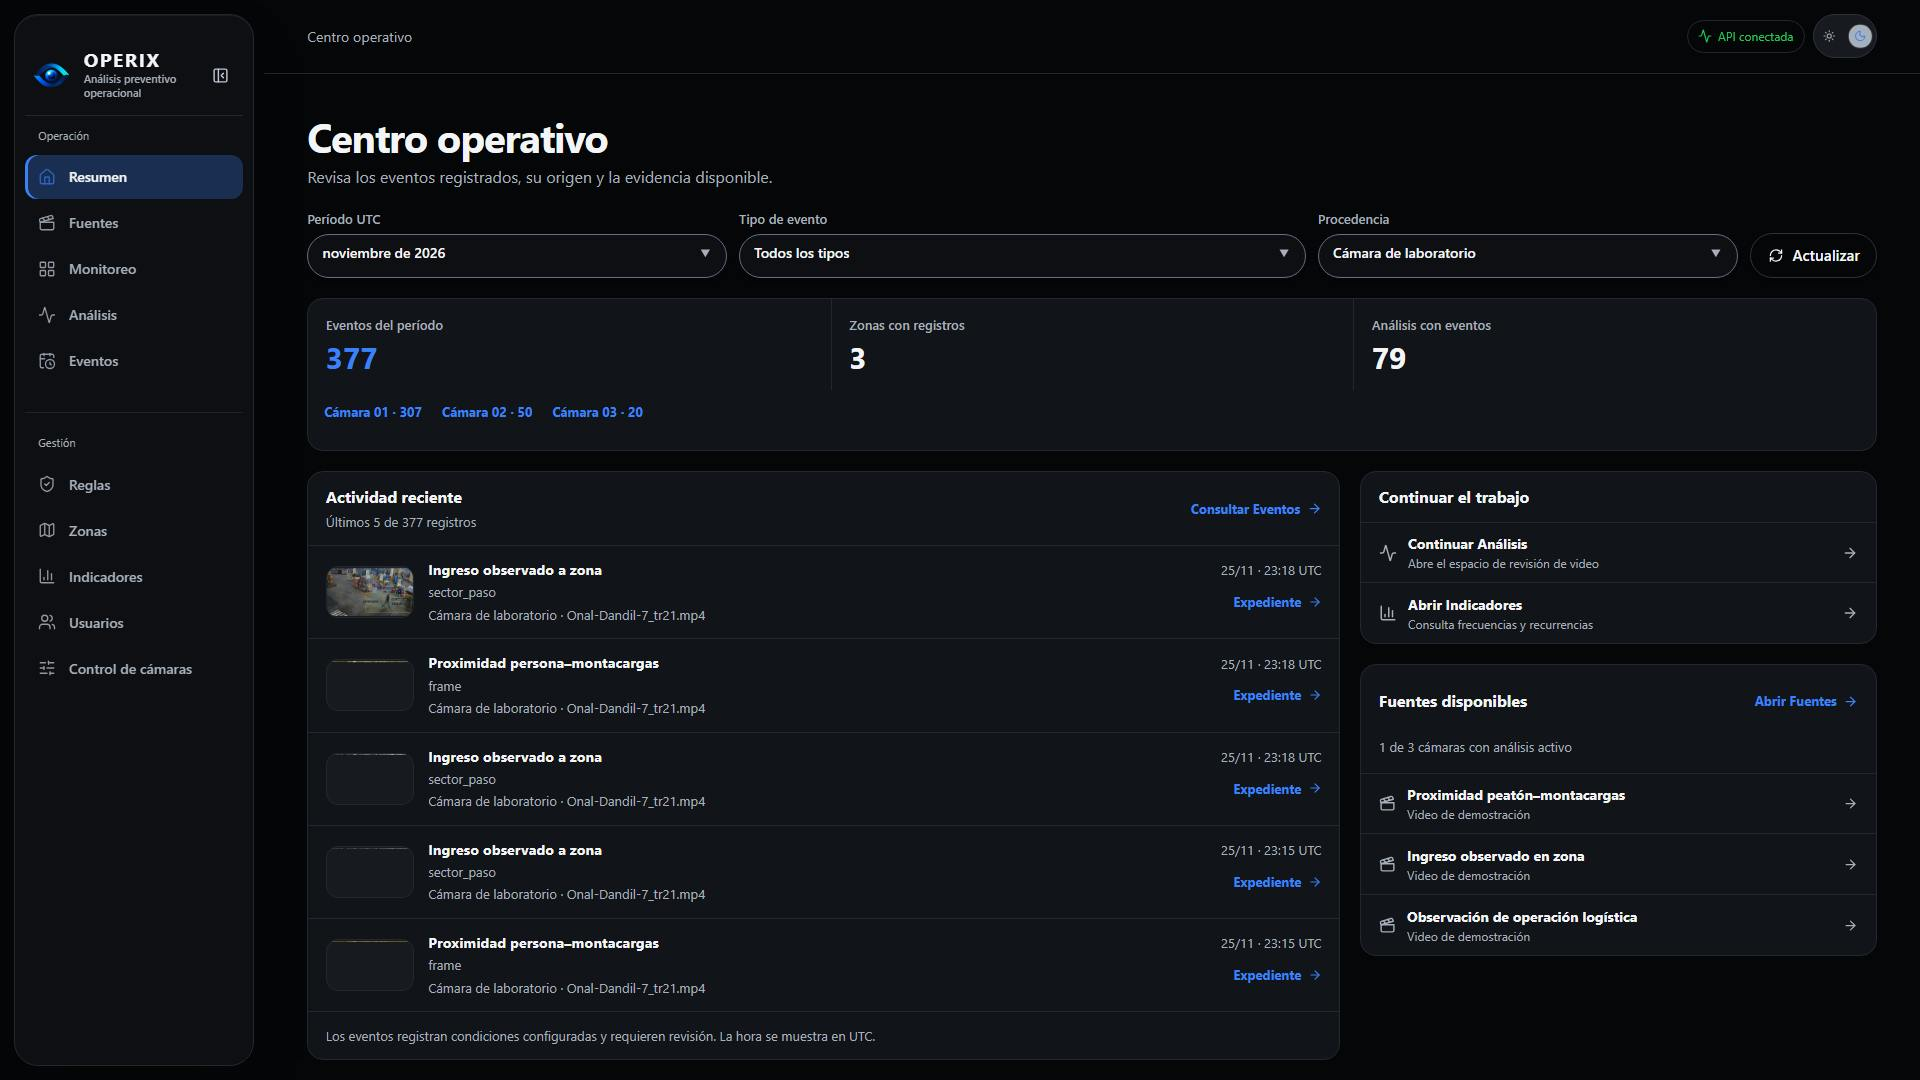
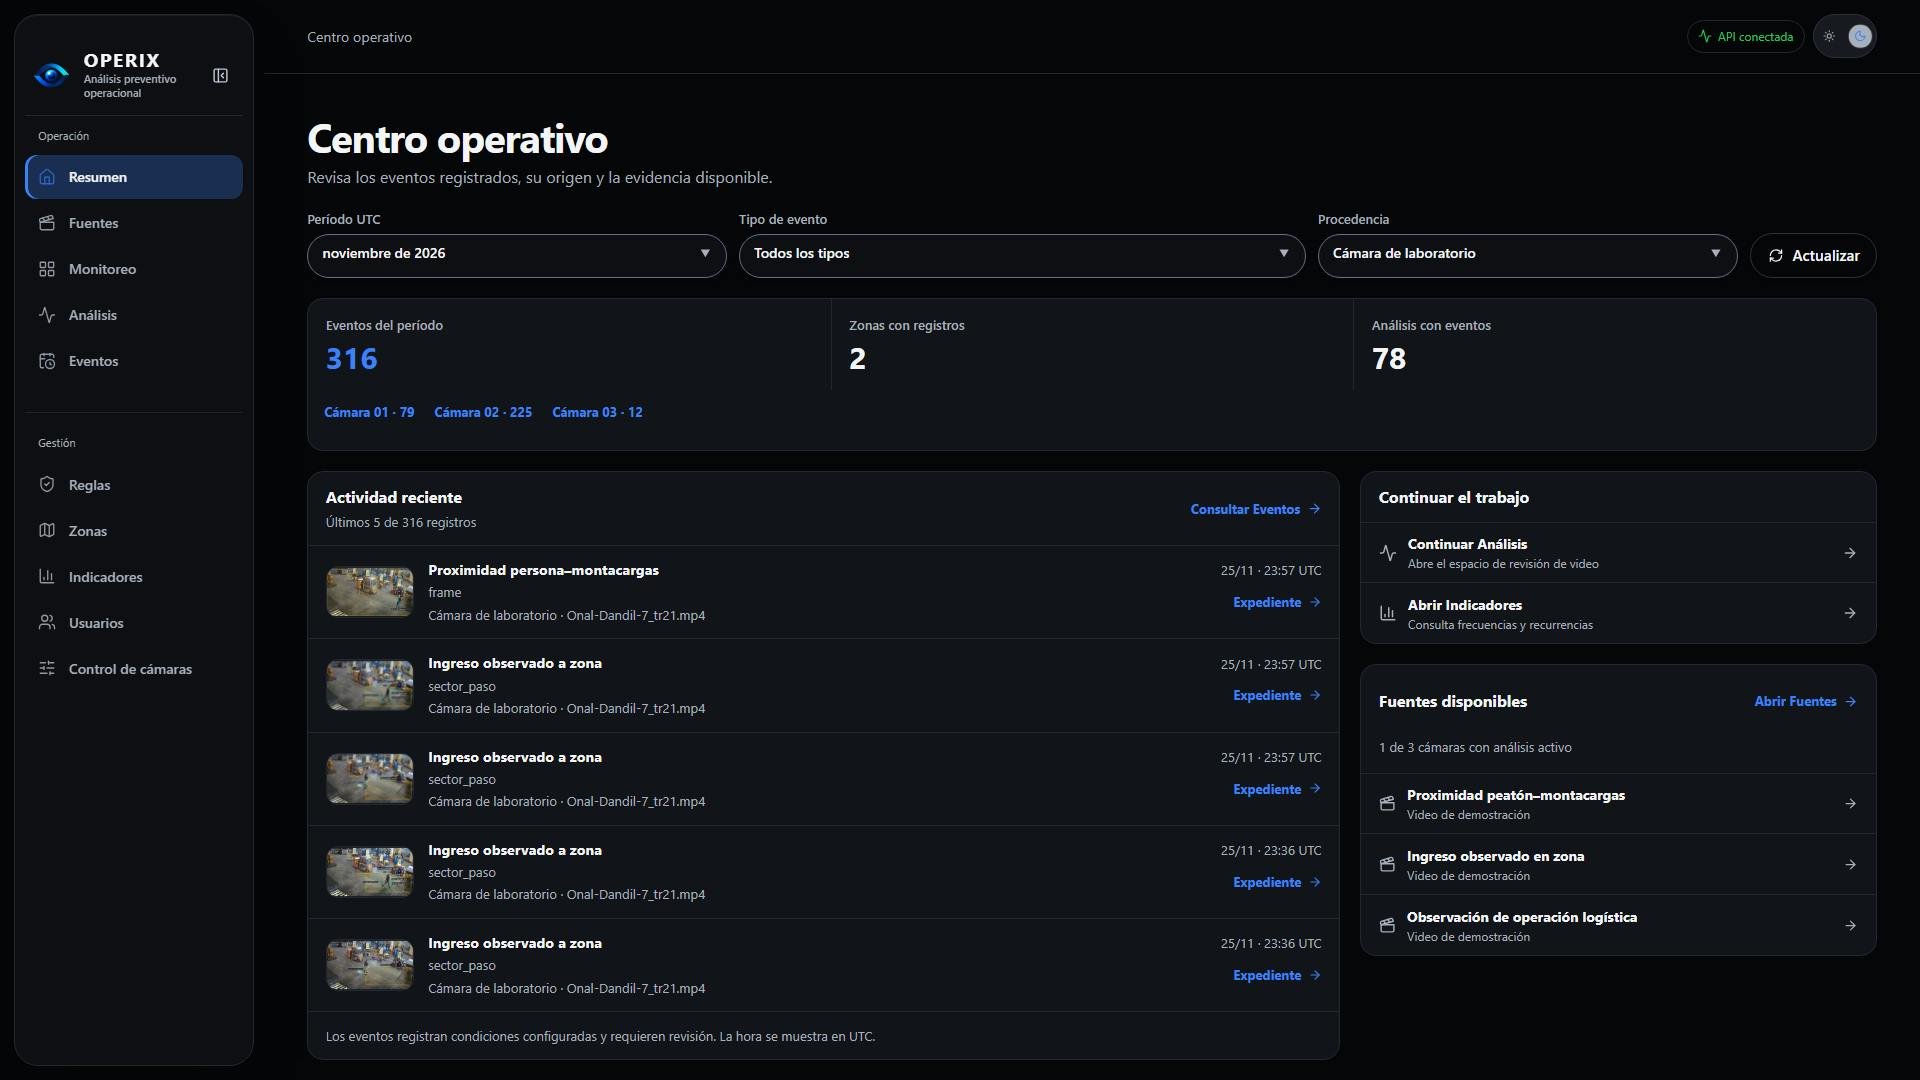
docs: actualizar la referencia operativa de la demostración

diff --git a/RELEASE_NOTES.md b/RELEASE_NOTES.md
@@ -1,10 +1,33 @@
 # Notas de release
 
-## v0.2.0 — MVP integrado / cierre técnico de Etapa 3
+## v0.2.0 — Candidato para demostración académica
 
-**Candidato validado, no publicado.** El gate final está aprobado; quedan pendientes
-la promoción de main y la creación del tag. Estas notas no crean
-un GitHub Release ni cambian las versiones declaradas de los paquetes.
+La instancia local de demostración usa **UNIFIED V7** con ONNX Runtime CUDA y
+ByteTrack. **LEGACY_DUAL** conserva los detectores separados como respaldo.
+Consulta la [instalación y arquitectura vigentes](README.md) y el
+[procedimiento de recuperación](deployment/rtsp-lab/README.md#recuperar-legacy_dual).
+
+- Tres cámaras de laboratorio con playlists de grabaciones autorizadas y
+  monitoreo LL-HLS. Cada emisión conserva su revisión espacial y contexto de
+  seguimiento. Las posiciones estimadas se dibujan y quedan fuera de las reglas.
+- Seis perfiles de análisis, entre grabaciones reales y simulaciones. Los
+  eventos se guardan en PostgreSQL y sus expedientes enlazan el PNG, el clip y
+  la regla aplicada. Un evento expresa una condición configurada que requiere
+  revisión humana.
+- Los overlays indican `norm.` sin calibración métrica y permiten mostrar
+  metros aproximados con una calibración física válida. Continúa pendiente
+  la validación de exactitud y reconocimiento en terreno.
+- Se observaron omisiones y falsos positivos sobre maquinaria fija. Subir la
+  resolución recuperó detecciones en un conjunto y aumentó los falsos
+  positivos en otro. Se conserva el perfil V7 evaluado para la demostración.
+
+La publicación de `dev`, la promoción a `main` y el etiquetado son decisiones
+separadas. Estas notas mantienen la versión candidata de los paquetes.
+
+## v0.2.0 — Antecedente del MVP integrado de Etapa 3
+
+Esta sección conserva el alcance y los resultados del cierre técnico de
+Etapa 3. El estado operativo de la demostración figura en la sección anterior.
 
 ### Alcance
 
@@ -22,8 +45,8 @@ un GitHub Release ni cambian las versiones declaradas de los paquetes.
   obsoletas; correcciones del replay multiclase y entradas numéricas extremas.
 - Ruta nativa y Docker Compose CPU/GPU, con pesos externos read-only.
 - Geometría de botones compartida entre light/dark, conservando colores y estados.
-- [Captura actual](assets/demo/v0.2.0/README.md) del flujo real como único asset
-  visual principal; el video actual de QA permanece fuera de Git. El
+- [Captura histórica de Etapa 3](assets/demo/v0.2.0/README.md) del flujo real.
+  El video de esa prueba permanece fuera de Git. El
   [PoC v0.1.0](assets/demo/README.md) permanece identificado como histórico.
 
 ### Evidencia y regresión

diff --git a/README.md b/README.md
@@ -44,8 +44,8 @@ archivos de [simulación](assets/demo/README.md).
 
 ## Capturas de la aplicación
 
-Las capturas se tomaron en Edge con el entorno de verificación. Los conteos
-corresponden a ejecuciones de prueba sobre grabaciones autorizadas.
+Las capturas se tomaron en Edge durante las pruebas en QA y en la instancia
+local. Los conteos corresponden a esas ejecuciones sobre grabaciones autorizadas.
 
 ![Centro operativo con eventos persistidos y conteos por cámara](assets/demo/current/dashboard.jpg)
 
@@ -70,7 +70,7 @@ corresponden a ejecuciones de prueba sobre grabaciones autorizadas.
 <details>
 <summary>Control de cámaras, zonas y calibración</summary>
 
-![Asignación de grabaciones y orden de reproducción](assets/demo/current/playlists.jpg)
+![Control de cámaras con la opción Cargar listas de demostración](assets/demo/current/playlists.jpg)
 ![Captura ArUco, zonas y reglas de una grabación sin escala física](assets/demo/current/calibracion.jpg)
 
 </details>
@@ -142,6 +142,9 @@ docker compose -f compose.yaml -f compose.gpu.yaml up -d --build
 [Guía Docker](deployment/docker/README.md): pesos/input read-only, puertos loopback
 y volúmenes propios. Los modelos no se incluyen en la imagen. La configuración CPU
 levanta la infraestructura; no convierte el worker CUDA en un worker de inferencia CPU.
+Para reproducir el perfil activo en la instancia de demostración, consulta la
+[configuración RTSP y GPU](deployment/rtsp-lab/README.md) y su
+[procedimiento de recuperación a LEGACY_DUAL](deployment/rtsp-lab/README.md#recuperar-legacy_dual).
 PostgreSQL conserva eventos, configuraciones y snapshots. Los volúmenes conservan PNG y clips. Las sesiones de análisis de archivo son temporales.
 **`docker compose down -v` elimina los volúmenes y sus datos.**
 
@@ -157,7 +160,10 @@ presentación en el navegador.
 
 - PERSON y FORKLIFT pueden omitirse o confundirse según el encuadre, el tamaño
   y la oclusión. PALLET_JACK se visualiza como clasificación experimental.
-  El seguimiento usa identificadores temporales por ejecución.
+  En Önal 7_tr21 se omitió una condición de proximidad entre repeticiones y
+  se observó una detección FORKLIFT sobre maquinaria fija. Comprueba los
+  objetos en el PNG y el clip. El seguimiento usa identificadores temporales
+  por ejecución.
 - `norm.` indica una distancia en espacio de imagen. Los metros aproximados
   requieren calibración física válida para la cámara y el plano. La
   comprobación geométrica controlada queda separada de la exactitud en terreno.

diff --git a/deployment/rtsp-lab/README.md b/deployment/rtsp-lab/README.md
@@ -523,7 +523,7 @@ antes de ofrecerlos y mantiene las revisiones y expedientes históricos.
 
 | Perfil | Grabación autorizada | Resultado esperado con la configuración inicial |
 |---|---|---|
-| A · Proximidad | `Onal-Dandil-7_te6-operix.mp4`, copia sin recodificación de la grabación de Embonor | Personas y montacargas, distancia normalizada, evento si se satisface 0,22 norm. durante al menos 0,4 s en el sector definido. |
+| A · Proximidad | `Onal-Dandil-7_te6-operix.mp4`, copia sin recodificación del clip de Önal y Dandıl usado en la demostración para Embonor | Personas y montacargas, distancia normalizada, evento si se satisface 0,22 norm. durante al menos 0,4 s en el sector definido. |
 | B · Ingreso observado | `Onal-Dandil-7_tr21.mp4` a 540p/15 FPS | La regla exige observar al peatón fuera antes de observarlo dentro del sector configurado. |
 | C · Observación | `NVIDIA-W026-C00-540p15.mp4`, cámara 0000 del almacén físico 026 | Detecciones y seguimiento durante 60 s. Este perfil comienza sin reglas de evento. |
 

diff --git a/docs/architecture/README.md b/docs/architecture/README.md
@@ -29,4 +29,10 @@ Los cinco ADR aprobados forman parte de la arquitectura base v1.0. Sus textos or
 
 ## Vigencia
 
-La arquitectura v1.0 permanece cerrada. Esta incorporación publica artefactos existentes; no modifica el diseño ni certifica que el Backend/API, la aplicación web, PostgreSQL o el despliegue representado estén terminados. El Motor implementa actualmente solo las capacidades indicadas en el README principal.
+Los diagramas y ADR conservan la línea base v1.0. En la instancia de
+demostración actual, Next.js consulta la API y la evidencia protegida de
+Django, PostgreSQL almacena eventos y revisiones, y un worker analiza cada
+emisión RTSP del laboratorio. MediaMTX distribuye LL-HLS y el navegador
+sincroniza los overlays con marcas de emisión. Consulta el
+[estado de la implementación](../../README.md) y las
+[guías de despliegue y recuperación](../../deployment/rtsp-lab/README.md).
